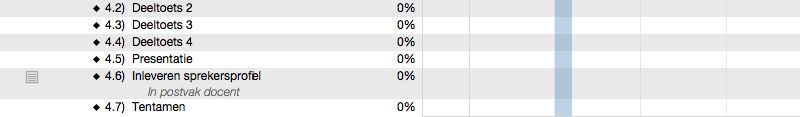
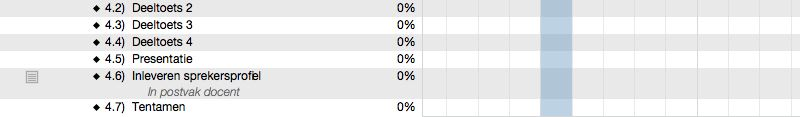
Schaal veranderd van weken naar maanden

Changed region(s): [[0.6562, 0.0, 0.7188, 1.0]]

diff --git a/planning/ISM2IKBS.V111Gantt.html b/planning/ISM2IKBS.V111Gantt.html
@@ -2,9 +2,11 @@
 <tr>
 	<td><img src="include/gantt0,0.jpg" border=0/></td>
 	<td><img src="include/gantt1,0.jpg" border=0/></td>
+	<td><img src="include/gantt2,0.jpg" border=0/></td>
 </tr>
 <tr>
 	<td><img src="include/gantt0,1.jpg" border=0/></td>
 	<td><img src="include/gantt1,1.jpg" border=0/></td>
+	<td><img src="include/gantt2,1.jpg" border=0/></td>
 </tr>
 </table></body></html>
